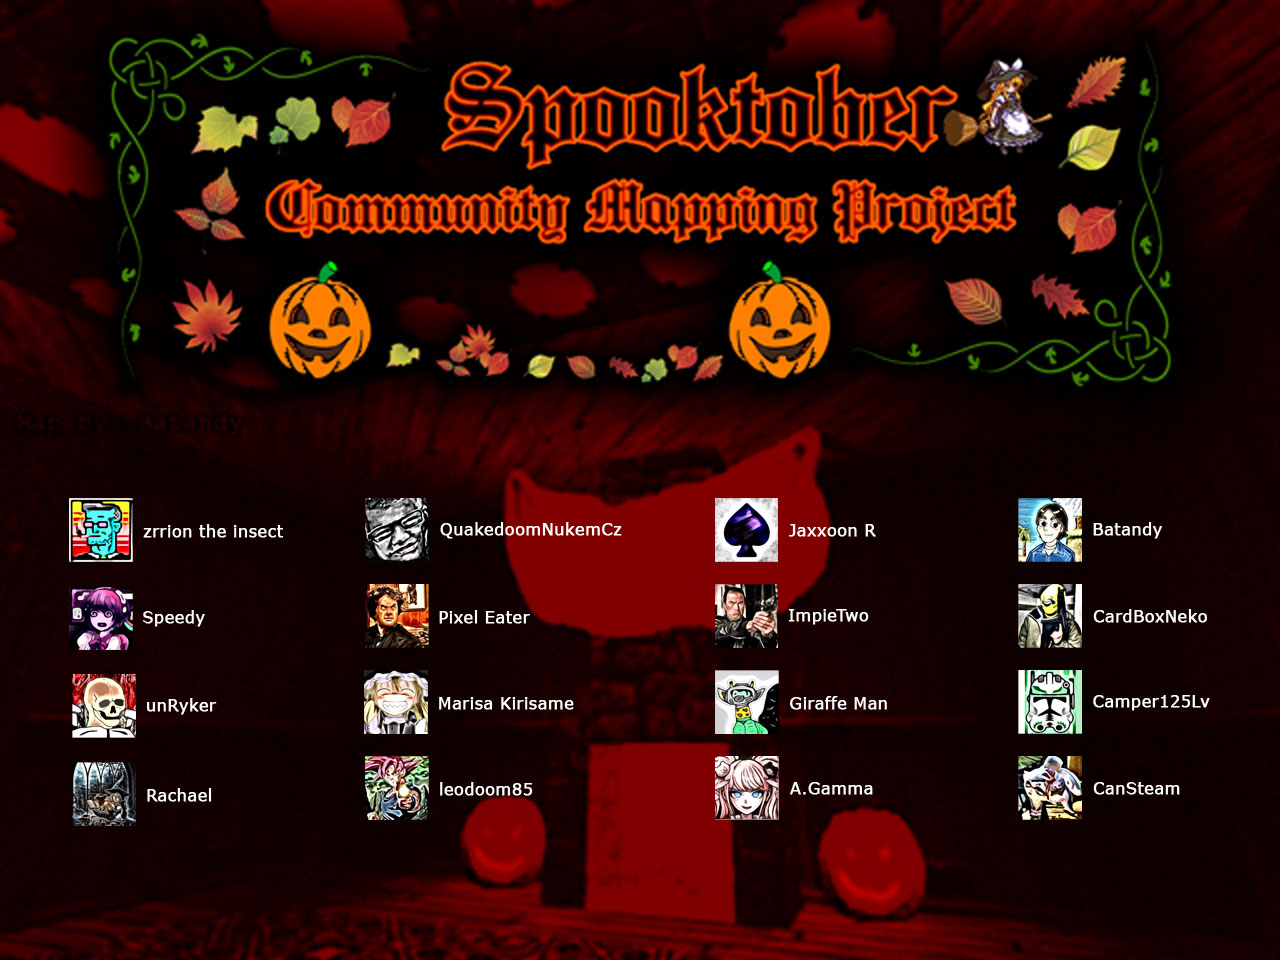
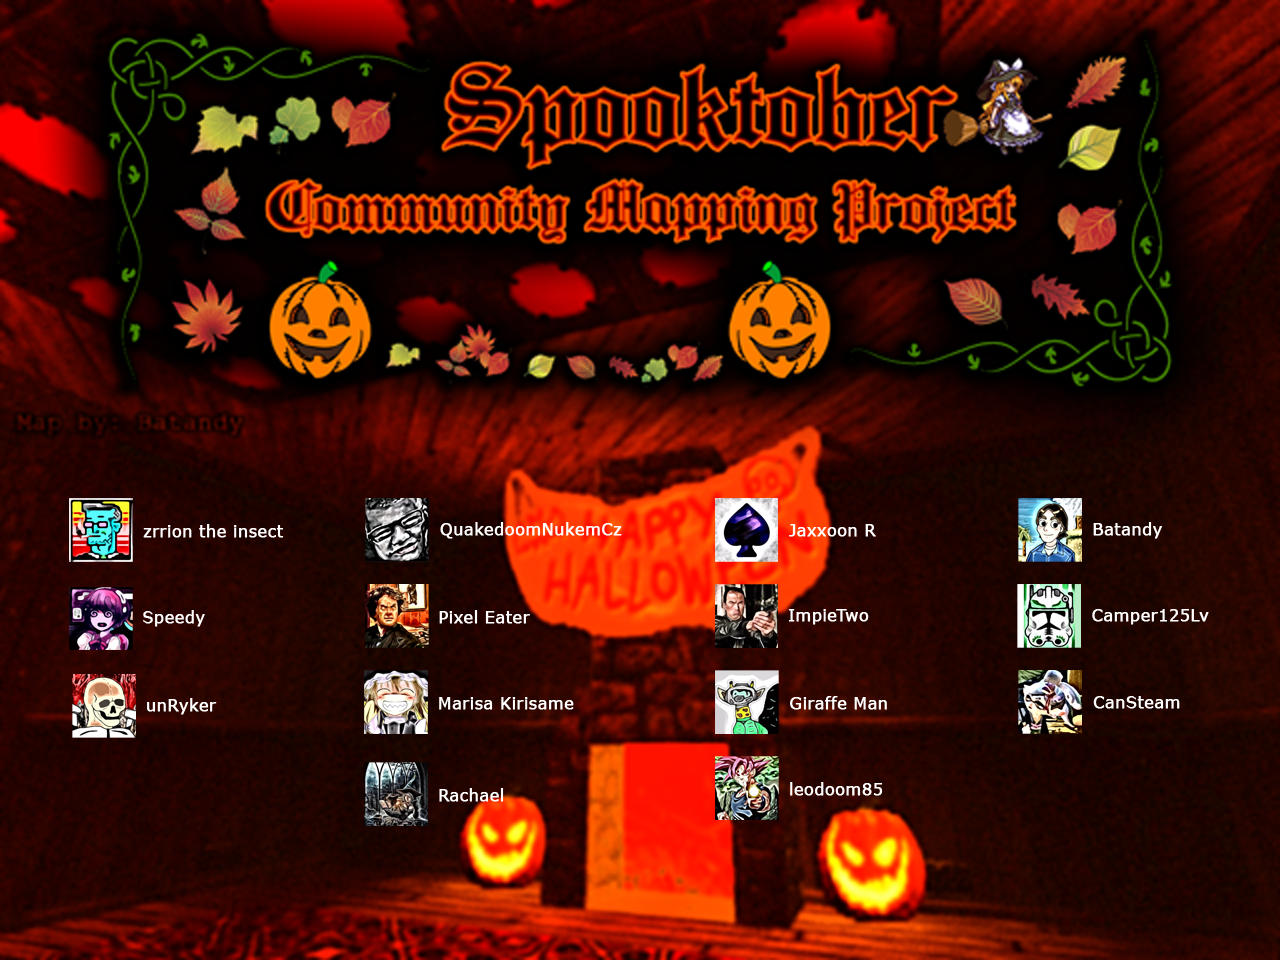
Update credits and author paintings

diff --git a/README.md b/README.md
@@ -35,7 +35,7 @@ Free slots: 0
 - **SPOOK12**: Alone in the Dark - ImpieTwo [completed] [par time set]
 - **SPOOK13**: Nightmare Fuel Arena - Marisa Kirisame [completed] [par time set]
 - **SECRET01**: Uncle Reggie's Basement - Giraffe Man [completed] [par time set]
-- **SECRET02**: Abandoned Warehouse - CardBoxNeko
+- **SECRET02**: Untitled Map - ImpieTwo
 - **SECRET03**: Point Motion - Marisa Kirisame
 - **SECRET04**: Mansion of Despair - QuakedoomNukem Cz [completed] [par time set]
 - **SECRET05**: Golden Slaughterer - Marisa Kirisame [completed] [par time set]
